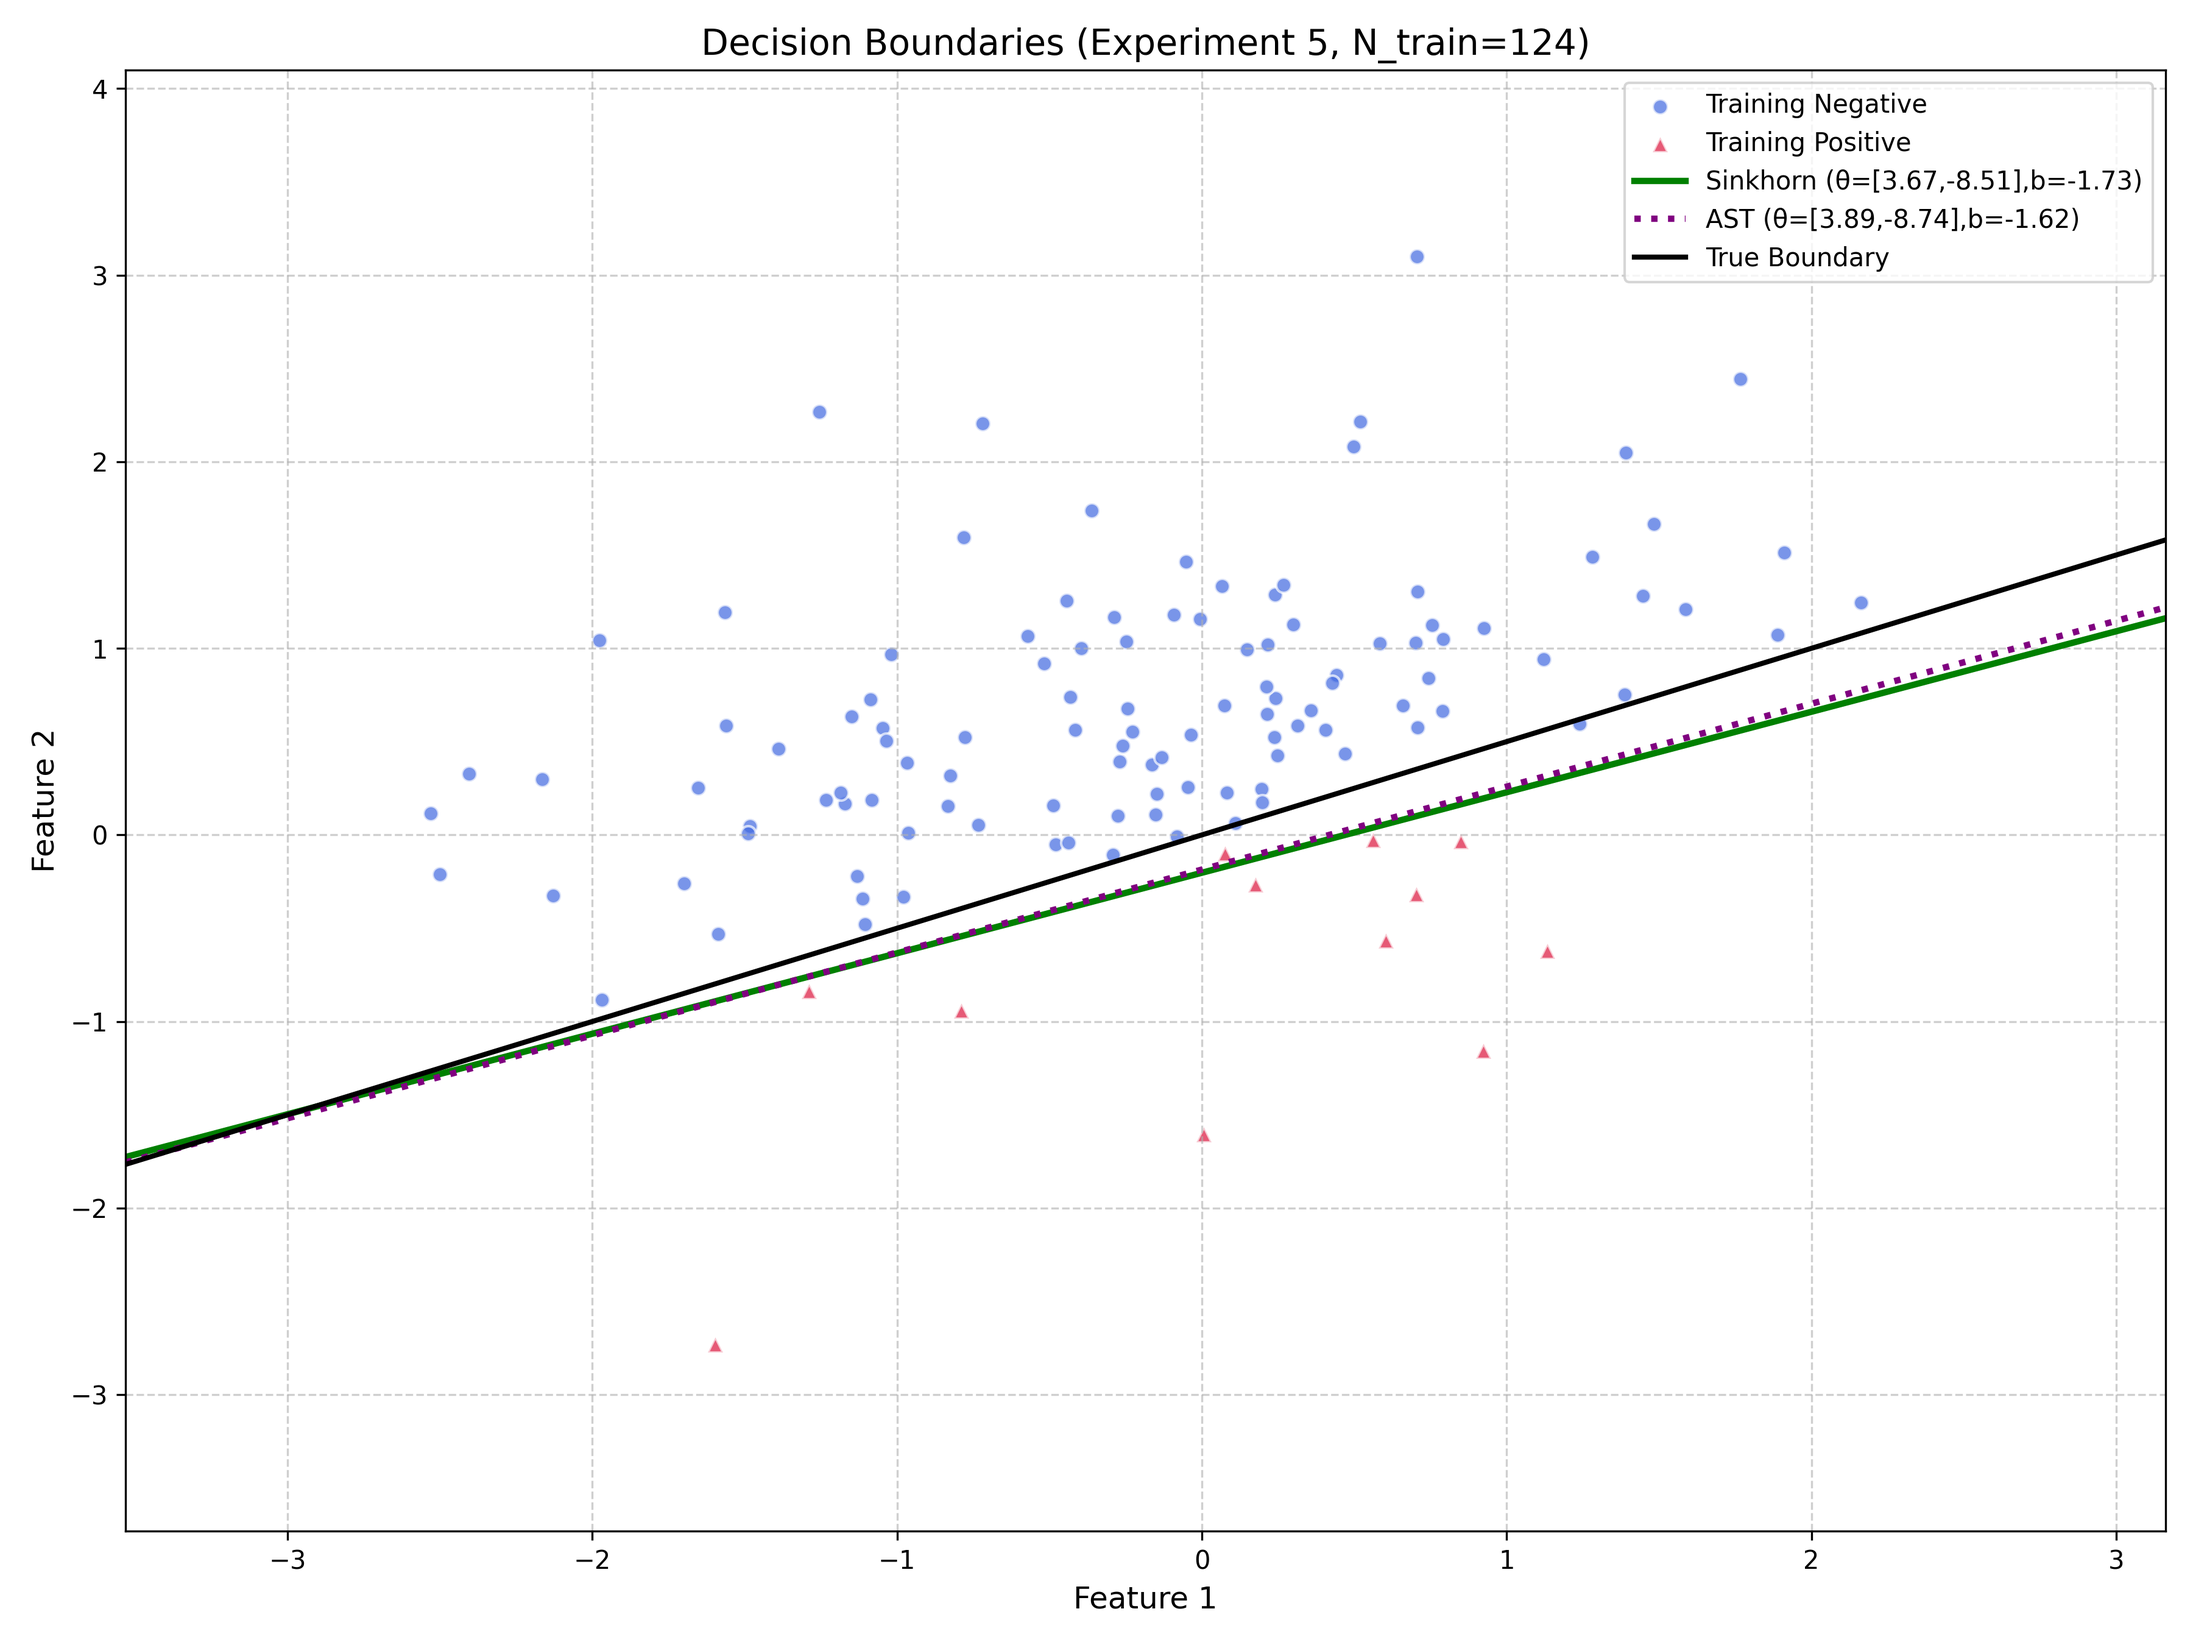
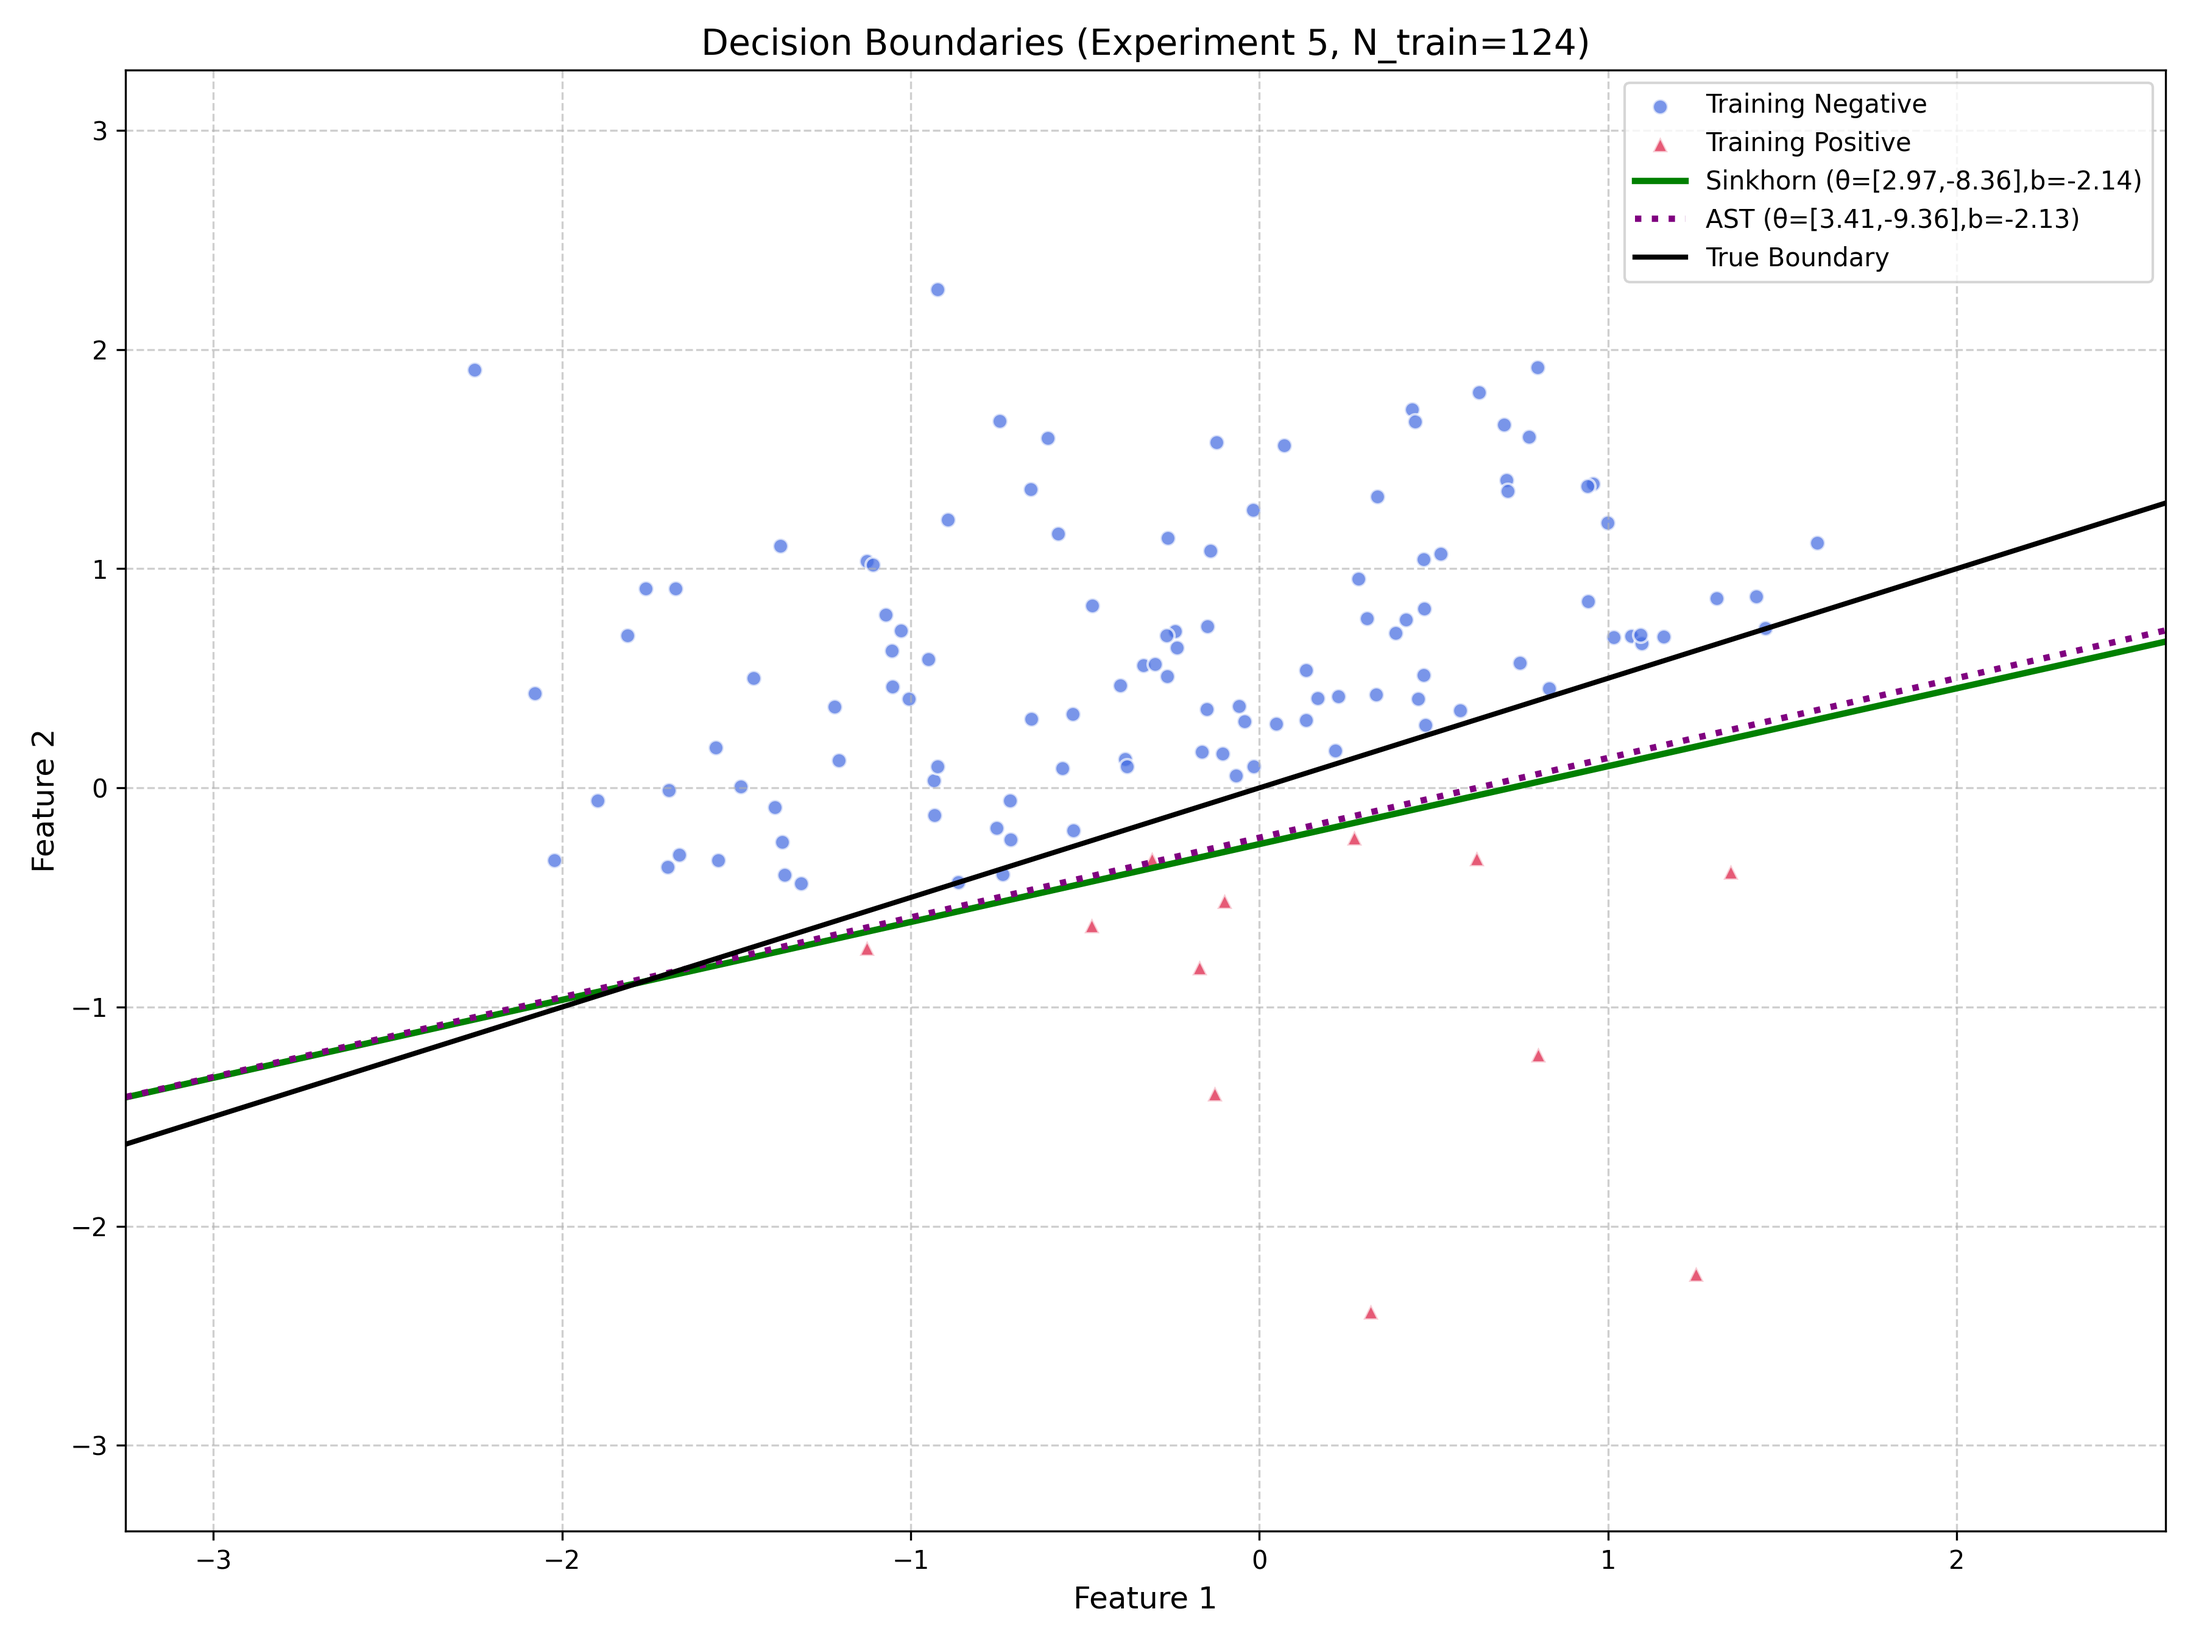
Add files via upload

diff --git a/AST_SinkhornDRO.html b/AST_SinkhornDRO.html
@@ -8013,7 +8013,7 @@ a.anchor-link {
 <div class="jp-Collapser jp-InputCollapser jp-Cell-inputCollapser">
 </div>
 <div class="jp-InputArea jp-Cell-inputArea">
-<div class="jp-InputPrompt jp-InputArea-prompt">In [14]:</div>
+<div class="jp-InputPrompt jp-InputArea-prompt">In [15]:</div>
 <div class="jp-CodeMirrorEditor jp-Editor jp-InputArea-editor" data-type="inline">
 <div class="cm-editor cm-s-jupyter">
 <div class="highlight hl-ipython3"><pre><span></span><span class="c1"># 5. Run Experiments</span>
@@ -8094,7 +8094,6 @@ a.anchor-link {
     <span class="n">plt</span><span class="o">.</span><span class="n">title</span><span class="p">(</span><span class="s1">'Model Performance Comparison'</span><span class="p">,</span> <span class="n">fontsize</span><span class="o">=</span><span class="mi">16</span><span class="p">)</span>
     <span class="n">plt</span><span class="o">.</span><span class="n">ylabel</span><span class="p">(</span><span class="s1">'F1 Score'</span><span class="p">,</span> <span class="n">fontsize</span><span class="o">=</span><span class="mi">12</span><span class="p">)</span>
     <span class="n">plt</span><span class="o">.</span><span class="n">grid</span><span class="p">(</span><span class="kc">True</span><span class="p">,</span> <span class="n">linestyle</span><span class="o">=</span><span class="s1">'--'</span><span class="p">,</span> <span class="n">alpha</span><span class="o">=</span><span class="mf">0.7</span><span class="p">)</span>
-    <span class="n">plt</span><span class="o">.</span><span class="n">show</span><span class="p">()</span>
     <span class="n">plt</span><span class="o">.</span><span class="n">savefig</span><span class="p">(</span><span class="s1">'final_performance_comparison.png'</span><span class="p">,</span> <span class="n">dpi</span><span class="o">=</span><span class="mi">300</span><span class="p">)</span>
     <span class="n">plt</span><span class="o">.</span><span class="n">close</span><span class="p">()</span>
 
@@ -8119,119 +8118,113 @@ Training data: 124 samples (9.7% positive)
 Test data: 2000 samples
 
 Training Sinkhorn DRO (SGD)...
-Sinkhorn DRO Final F1-Score: 0.8997
+Sinkhorn DRO Final F1-Score: 0.9177
 
 Training AST Sampler DRO...
-AST DRO Final F1-Score: 0.9047
+AST DRO Final F1-Score: 0.9243
 
 --- Sinkhorn Analysis ---
-Model parameters: theta=[5.1626, -7.4302], bias=-2.1727
-Fraction of test samples near boundary: 0.75%
-Accuracy on test set: 0.9000, F1-Score: 0.8938
+Model parameters: theta=[3.3356, -7.4306], bias=-1.8148
+Fraction of test samples near boundary: 0.85%
+Accuracy on test set: 0.9180, F1-Score: 0.9131
 
 --- AST Analysis ---
-Model parameters: theta=[5.2213, -7.7800], bias=-2.1418
-Fraction of test samples near boundary: 0.95%
-Accuracy on test set: 0.9050, F1-Score: 0.8996
+Model parameters: theta=[3.7039, -8.1374], bias=-1.7928
+Fraction of test samples near boundary: 0.45%
+Accuracy on test set: 0.9245, F1-Score: 0.9206
 
 ==================== Experiment 2/5 ====================
 Training data: 124 samples (9.7% positive)
 Test data: 2000 samples
 
 Training Sinkhorn DRO (SGD)...
-Sinkhorn DRO Final F1-Score: 0.9146
+Sinkhorn DRO Final F1-Score: 0.9234
 
 Training AST Sampler DRO...
-AST DRO Final F1-Score: 0.9172
+AST DRO Final F1-Score: 0.9325
 
 --- Sinkhorn Analysis ---
-Model parameters: theta=[3.4257, -6.9202], bias=-1.5225
-Fraction of test samples near boundary: 1.40%
-Accuracy on test set: 0.9150, F1-Score: 0.9089
+Model parameters: theta=[2.9557, -8.0104], bias=-1.7116
+Fraction of test samples near boundary: 1.25%
+Accuracy on test set: 0.9235, F1-Score: 0.9213
 
 --- AST Analysis ---
-Model parameters: theta=[3.3384, -6.9407], bias=-1.4670
-Fraction of test samples near boundary: 1.10%
-Accuracy on test set: 0.9175, F1-Score: 0.9118
+Model parameters: theta=[3.2240, -9.0822], bias=-1.6124
+Fraction of test samples near boundary: 1.00%
+Accuracy on test set: 0.9325, F1-Score: 0.9316
 
 ==================== Experiment 3/5 ====================
 Training data: 124 samples (9.7% positive)
 Test data: 2000 samples
 
 Training Sinkhorn DRO (SGD)...
-Sinkhorn DRO Final F1-Score: 0.9267
+Sinkhorn DRO Final F1-Score: 0.9270
 
 Training AST Sampler DRO...
-AST DRO Final F1-Score: 0.9363
+AST DRO Final F1-Score: 0.9390
 
 --- Sinkhorn Analysis ---
-Model parameters: theta=[3.3601, -7.1112], bias=-1.4695
-Fraction of test samples near boundary: 1.10%
-Accuracy on test set: 0.9270, F1-Score: 0.9221
+Model parameters: theta=[3.5546, -7.8524], bias=-1.3819
+Fraction of test samples near boundary: 1.30%
+Accuracy on test set: 0.9270, F1-Score: 0.9255
 
 --- AST Analysis ---
-Model parameters: theta=[3.7072, -7.7710], bias=-1.3953
-Fraction of test samples near boundary: 0.75%
-Accuracy on test set: 0.9365, F1-Score: 0.9329
+Model parameters: theta=[3.9166, -8.8495], bias=-1.2464
+Fraction of test samples near boundary: 1.00%
+Accuracy on test set: 0.9390, F1-Score: 0.9386
 
 ==================== Experiment 4/5 ====================
 Training data: 124 samples (9.7% positive)
 Test data: 2000 samples
 
 Training Sinkhorn DRO (SGD)...
-Sinkhorn DRO Final F1-Score: 0.9310
+Sinkhorn DRO Final F1-Score: 0.8784
 
 Training AST Sampler DRO...
-AST DRO Final F1-Score: 0.9366
+AST DRO Final F1-Score: 0.8825
 
 --- Sinkhorn Analysis ---
-Model parameters: theta=[3.3326, -6.8902], bias=-1.4120
-Fraction of test samples near boundary: 1.00%
-Accuracy on test set: 0.9315, F1-Score: 0.9250
+Model parameters: theta=[4.9892, -8.1303], bias=-2.9062
+Fraction of test samples near boundary: 0.75%
+Accuracy on test set: 0.8795, F1-Score: 0.8668
 
 --- AST Analysis ---
-Model parameters: theta=[3.5195, -7.1915], bias=-1.3216
-Fraction of test samples near boundary: 1.00%
-Accuracy on test set: 0.9370, F1-Score: 0.9314
+Model parameters: theta=[5.1705, -8.6083], bias=-2.9114
+Fraction of test samples near boundary: 0.60%
+Accuracy on test set: 0.8835, F1-Score: 0.8718
 
 ==================== Experiment 5/5 ====================
 Training data: 124 samples (9.7% positive)
 Test data: 2000 samples
 
 Training Sinkhorn DRO (SGD)...
-Sinkhorn DRO Final F1-Score: 0.9219
+Sinkhorn DRO Final F1-Score: 0.9018
 
 Training AST Sampler DRO...
-AST DRO Final F1-Score: 0.9291
+AST DRO Final F1-Score: 0.9131
 
 --- Sinkhorn Analysis ---
-Model parameters: theta=[3.6716, -8.5110], bias=-1.7266
-Fraction of test samples near boundary: 0.65%
-Accuracy on test set: 0.9230, F1-Score: 0.9125
+Model parameters: theta=[2.9711, -8.3601], bias=-2.1443
+Fraction of test samples near boundary: 1.30%
+Accuracy on test set: 0.9025, F1-Score: 0.8937
 
 --- AST Analysis ---
-Model parameters: theta=[3.8857, -8.7441], bias=-1.6238
-Fraction of test samples near boundary: 0.85%
-Accuracy on test set: 0.9300, F1-Score: 0.9211
+Model parameters: theta=[3.4060, -9.3602], bias=-2.1271
+Fraction of test samples near boundary: 0.80%
+Accuracy on test set: 0.9135, F1-Score: 0.9069
 
 ========================= Final Results over 5 Experiments =========================
-Sinkhorn Average F1-Score: 0.9188 ± 0.0110
-AST Average F1-Score: 0.9248 ± 0.0123
+Sinkhorn Average F1-Score: 0.9097 ± 0.0179
+AST Average F1-Score: 0.9183 ± 0.0199
 </pre>
 </div>
 </div>
 <div class="jp-OutputArea-child">
 <div class="jp-OutputPrompt jp-OutputArea-prompt"></div>
 <div class="jp-RenderedText jp-OutputArea-output" data-mime-type="application/vnd.jupyter.stderr" tabindex="0">
-<pre>/tmp/ipykernel_3268764/4120321280.py:73: MatplotlibDeprecationWarning: The 'labels' parameter of boxplot() has been renamed 'tick_labels' since Matplotlib 3.9; support for the old name will be dropped in 3.11.
+<pre>/tmp/ipykernel_3268764/844582273.py:73: MatplotlibDeprecationWarning: The 'labels' parameter of boxplot() has been renamed 'tick_labels' since Matplotlib 3.9; support for the old name will be dropped in 3.11.
   plt.boxplot(list(scores.values()), labels=list(scores.keys()), patch_artist=True,
 </pre>
-</div>
-</div>
-<div class="jp-OutputArea-child">
-<div class="jp-OutputPrompt jp-OutputArea-prompt"></div>
-<div class="jp-RenderedImage jp-OutputArea-output" tabindex="0">
[1 lines of base64/hex data omitted]
 </div>
 </div>
 </div>
